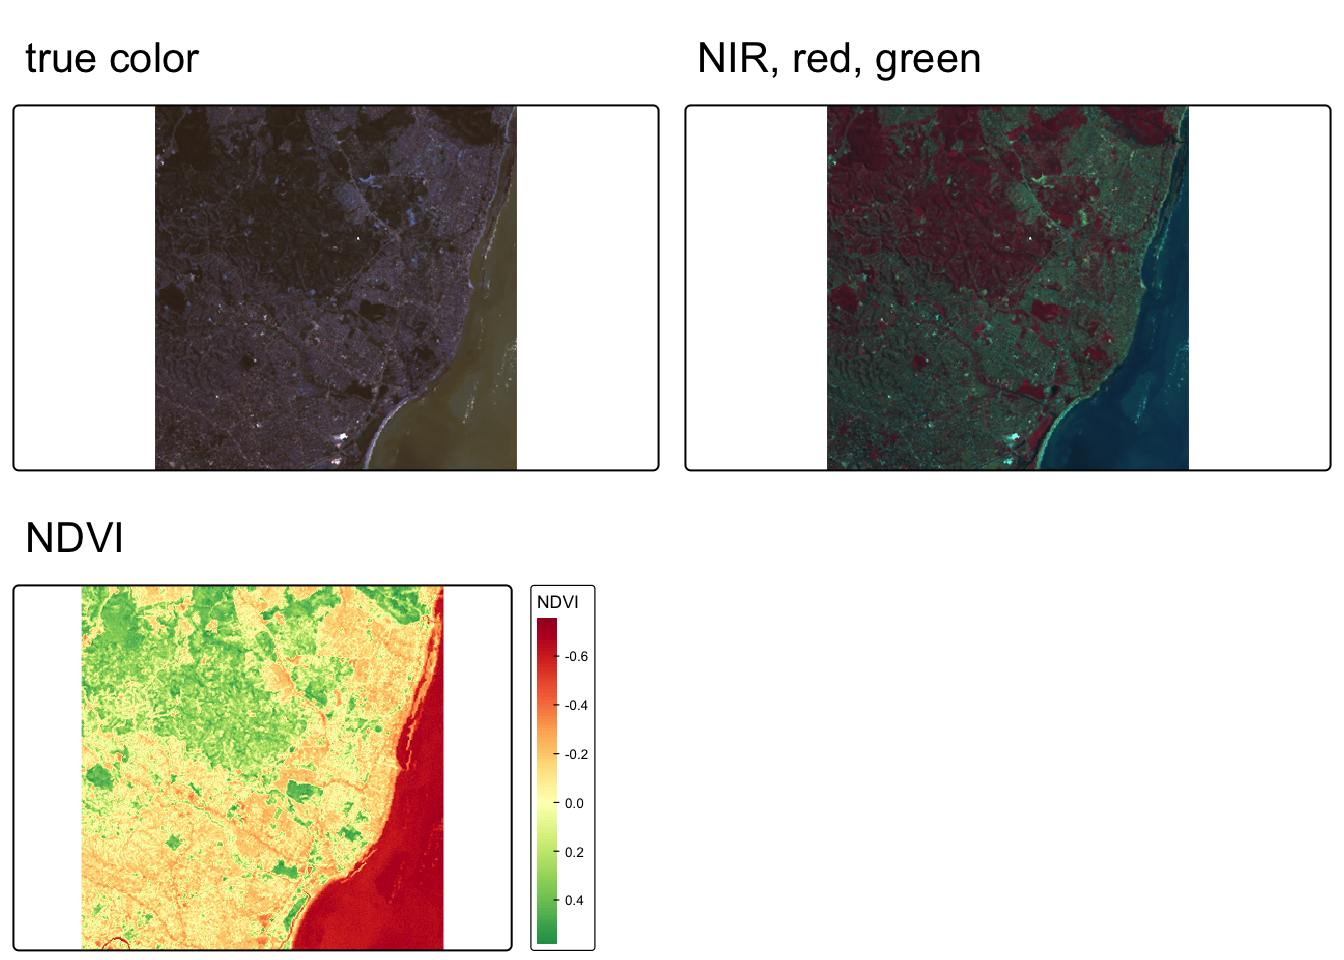
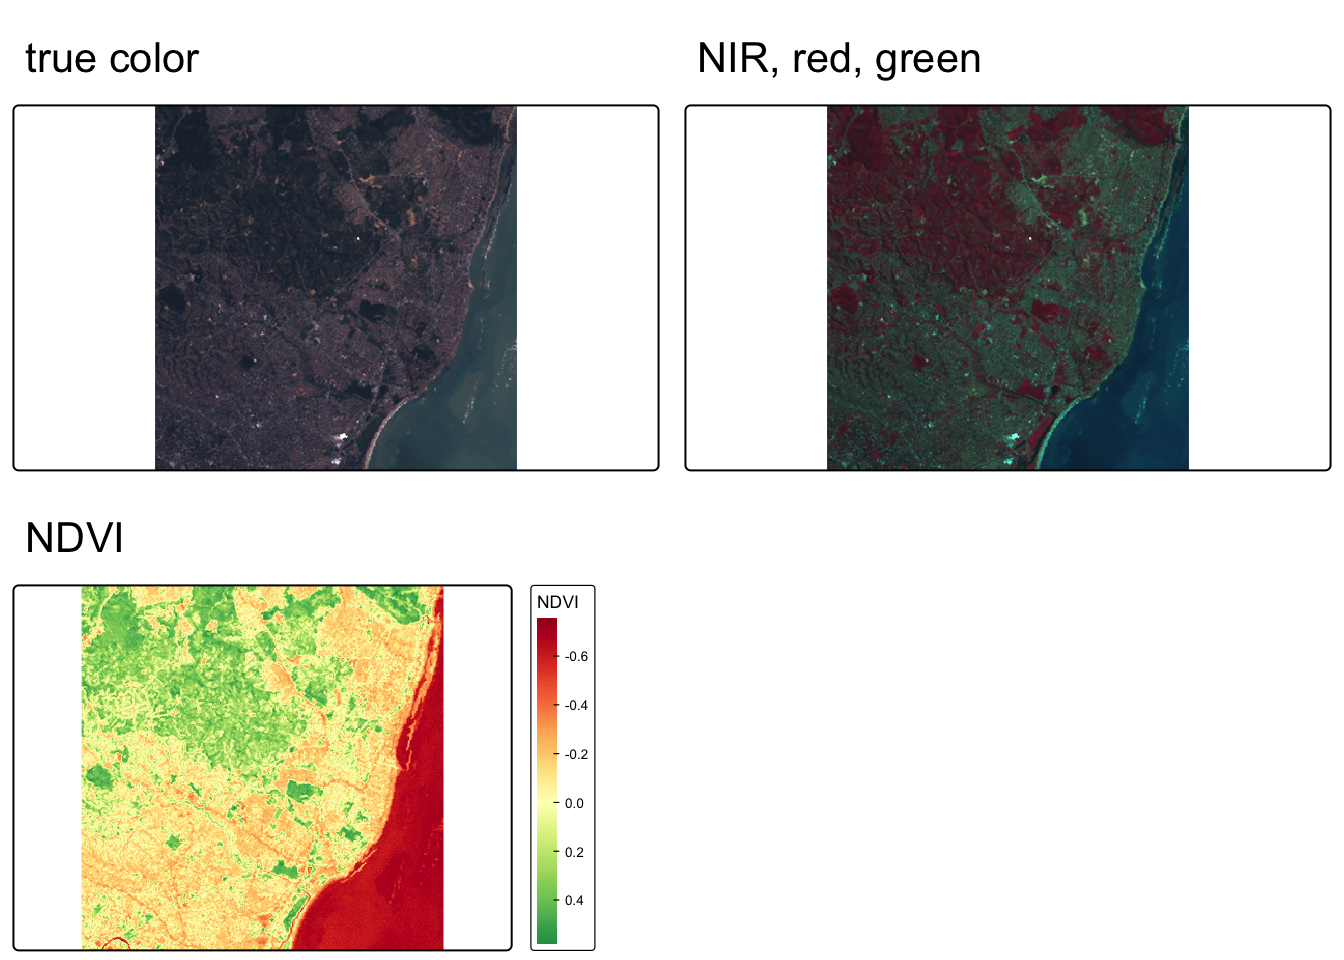
Fix typo on band order in true color imagery

Changed region(s): [[0.2812, 0.2188, 0.4062, 0.5]]

diff --git a/docs/course-materials/labs/week6.html b/docs/course-materials/labs/week6.html
@@ -7,7 +7,7 @@
 <meta name="viewport" content="width=device-width, initial-scale=1.0, user-scalable=yes">
 
 <meta name="author" content="Ruth Oliver">
-<meta name="dcterms.date" content="2025-11-05">
+<meta name="dcterms.date" content="2025-11-06">
 
 <title>Week 6: Lab</title>
 <style>
@@ -224,7 +224,7 @@ pre > code.sourceCode > span > a:first-child::before { text-decoration: underlin
       <div>
       <div class="quarto-title-meta-heading">Published</div>
       <div class="quarto-title-meta-contents">
-        <p class="date">November 5, 2025</p>
+        <p class="date">November 6, 2025</p>
       </div>
     </div>
     
@@ -658,7 +658,7 @@ pre > code.sourceCode > span > a:first-child::before { text-decoration: underlin
 <details class="code-fold">
 <summary>Code</summary>
 <div class="code-copy-outer-scaffold"><div class="sourceCode cell-code" id="cb18"><pre class="sourceCode r code-with-copy"><code class="sourceCode r"><span id="cb18-1"><a href="#cb18-1" aria-hidden="true" tabindex="-1"></a>map1 <span class="ot">&lt;-</span> <span class="fu">tm_shape</span>(L7) <span class="sc">+</span></span>
-<span id="cb18-2"><a href="#cb18-2" aria-hidden="true" tabindex="-1"></a>  <span class="fu">tm_rgb</span>(<span class="at">col =</span> <span class="fu">tm_vars</span>(<span class="fu">c</span>(<span class="dv">1</span>,<span class="dv">2</span>,<span class="dv">3</span>), <span class="at">multivariate =</span> <span class="cn">TRUE</span>)) <span class="sc">+</span></span>
+<span id="cb18-2"><a href="#cb18-2" aria-hidden="true" tabindex="-1"></a>  <span class="fu">tm_rgb</span>(<span class="at">col =</span> <span class="fu">tm_vars</span>(<span class="fu">c</span>(<span class="dv">3</span>,<span class="dv">2</span>,<span class="dv">1</span>), <span class="at">multivariate =</span> <span class="cn">TRUE</span>)) <span class="sc">+</span></span>
 <span id="cb18-3"><a href="#cb18-3" aria-hidden="true" tabindex="-1"></a>  <span class="fu">tm_title</span>(<span class="at">text =</span> <span class="st">"true color"</span>)</span>
 <span id="cb18-4"><a href="#cb18-4" aria-hidden="true" tabindex="-1"></a></span>
 <span id="cb18-5"><a href="#cb18-5" aria-hidden="true" tabindex="-1"></a>map2 <span class="ot">&lt;-</span> <span class="fu">tm_shape</span>(L7) <span class="sc">+</span></span>
